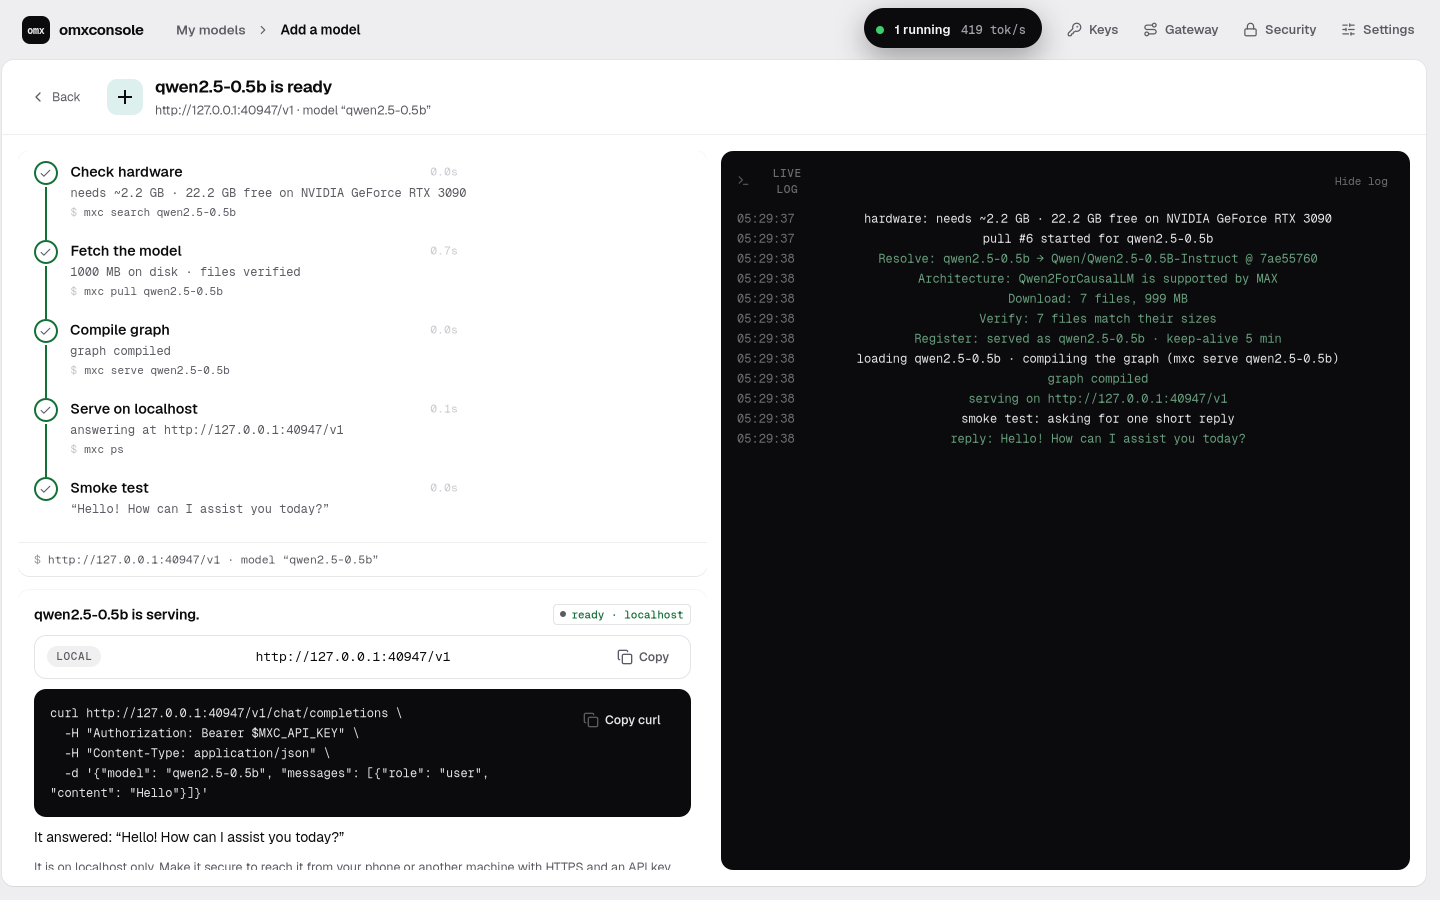
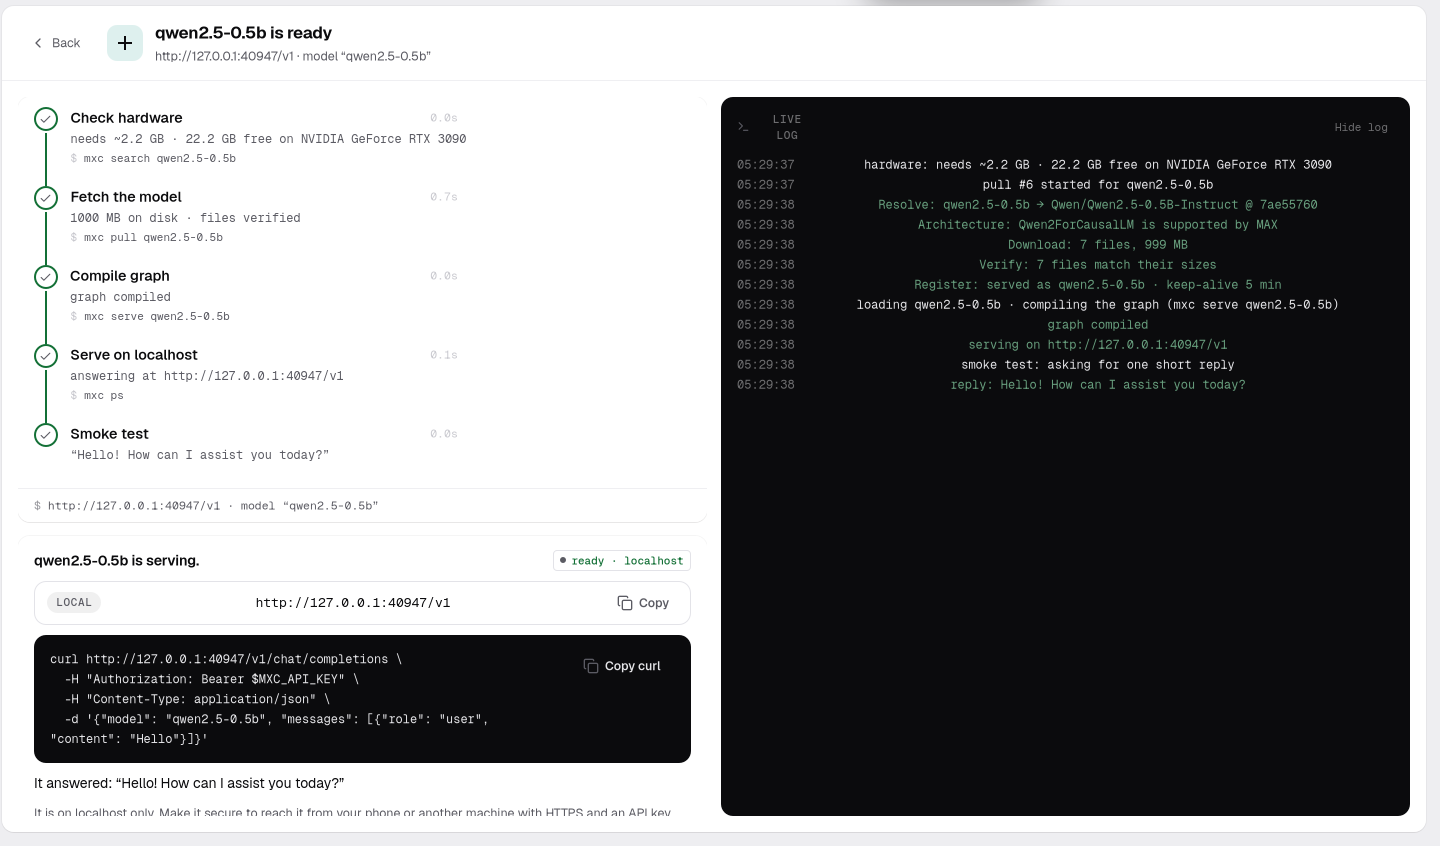
Goal 55 review round 1 fixes: M4 on medians again; no speed in gallery pictures; redirect tokens kept only on same-host HTTPS; Hub names can't escape; cancel and DELETE never remove a working model's files; failures never leave rows running; tests/test_safety.mojo (D-5528–D-5530)

diff --git a/docs/goals/55-check.py b/docs/goals/55-check.py
@@ -239,6 +239,11 @@ def m2():
     if build_all():
         return False, "build failed"
     problems = []
+    # the safety rules under downloads and deletes, offline (review round 1: redirect tokens, remove_tree, Hub names)
+    r = run(["scripts/mojo_flare.sh", "build", "tests/test_safety.mojo", "-o", str(BUILD / "test_safety")])
+    t = run([str(BUILD / "test_safety")], timeout=120) if r.returncode == 0 else r
+    if t.returncode != 0 or "safety: ok" not in t.stdout:
+        problems.append("test_safety: " + (t.stdout + t.stderr)[-300:])
     with Daemon() as d:
         m = ensure_small(d)
         if not m:
@@ -338,14 +343,14 @@ def m4():
         best_bench = db.execute("SELECT max(decode_tps) FROM bench_samples WHERE run_id = ? AND error IS NULL",
                                 (latest.get("id"),)).fetchone()[0] or 0
         db.close()
-        close = best_bench > 0 and abs(best_bench - best_sdk) / best_sdk <= 0.25
+        close = btps > 0 and abs(btps - tps) / tps <= 0.25  # (the contract's medians: D-5516's best-run comparison withdrawn, D-5528)
         steps = STEPS / "m4.steps"
         if not steps.exists():
             return False, "no docs/goals/55/m4.steps (the Benchmark tab)"
         ok, out = console(steps, d, G55 / "console-bench.png")
         bars = ok and bool(re.search(r"SAYS: bench-bars = .*\d", out))
         return close and bars, f"bench p50: ttft {bt * 1000:.0f} ms, {btps:.1f} tok/s; SDK p50: ttft {ttft * 1000:.0f} ms, {tps:.1f} tok/s; " \
-            f"best runs: bench {best_bench:.1f}, SDK {best_sdk:.1f} tok/s ({'within' if close else 'outside'} 25 %); console bars {'drawn' if bars else 'missing: ' + out[-200:]}"
+            f"medians {'within' if close else 'outside'} 25 % (best runs: bench {best_bench:.1f}, SDK {best_sdk:.1f}); console bars {'drawn' if bars else 'missing: ' + out[-200:]}"
 
 
 def m5():

diff --git a/scripts/gallery_page.py b/scripts/gallery_page.py
@@ -34,8 +34,8 @@ APPS = [
          line="Find a model on Hugging Face, download it, chat with it and benchmark it on your own GPU through Modular's MAX. One OpenAI-style endpoint with keys, all omxcode.",
          # (Mac: the macOS 15 runner's build ran there; on macOS 26 the runner's own build of the same source ran)
          runs=[("Linux", "ok"), ("Mac", "ci")], get=["Linux", "Mac"], needs="Needs MAX installed (docs.modular.com/max/packages)",
-         shots=[("img/omxconsole-ready.png", "Linux: a model found, downloaded and answering"), ("img/omxconsole-bench.png", "Linux: its benchmark, 331 tokens/s"),
-                ("img/omxconsole-models.png", "Linux: My models")], src="examples/console"),
+         # (no speed in the pictures or captions: docs/lessons.md, D-4762; the Ready shot is cropped below its top bar's tok/s)
+         shots=[("img/omxconsole-ready.png", "Linux: a model found, downloaded and answering"), ("img/omxconsole-models.png", "Linux: My models")], src="examples/console"),
     dict(name="Sketch", app="sketch", kind="Drawing",
          line="Pressure ink with pan and zoom. Strokes taper with the pen; panning moves the kept ink, never redraws it.",
          runs=[("Linux", "ok"), ("Mac", "ci")], get=["Linux", "Mac"],

diff --git a/docs/decisions.md b/docs/decisions.md
@@ -1267,3 +1267,6 @@ One line per fork: `D-nn · chose X over Y · why · reversible?`
 - D-5525 · M5 runs the released omxconsole tarball when dist/ holds it (its sha256 = the gallery-apps asset's digest), else packages afresh, over always repackaging · a fresh package has a new checksum, so M7's "the download is the file that was run" broke after M5; and the run now tests what people download · yes
 - D-5526 · omxconsole's Mac download is the macOS 15 runner's build (it ran there), over the macOS 26 build · a Mac binary runs on later systems, not earlier ones; on 26 the runner's own build of the same source ran: the release notes say exactly that · yes
 - D-5527 · docs/goals/53-check.py reads every Mac run the release notes name (one per batch of apps) · omxconsole was tested in its own run · yes
+- D-5528 · (review round 1) M4 compares the medians again, as GOAL.md says; D-5516's best-run comparison is withdrawn · it hid what the contract measures (the full run showed medians of 304 and 209 tok/s passing on best runs); a run on a busy GPU now fails and is run again when the GPU is quiet, rather than passing on a friendlier statistic · yes
+- D-5529 · (review round 1) gallery pictures carry no speed (docs/lessons.md D-4762): the Ready shot is cropped below its top bar's tok/s, the benchmark shot and its caption are gone · yes
+- D-5530 · (review round 1) safety fixes: a token never follows a redirect from HTTPS to HTTP; a Hub file name with "", "." or ".." parts or a leading / is refused; a cancelled re-pull of a registered model removes only its .part files; DELETE removes only MXC_HOME/models/<one part>, never a folder another model uses, and refuses while that model is being pulled; a pull or bench that fails before its last write is marked failed (no more `except: pass`); progress writes touch only rows still downloading; config.json and the shard index must answer 200; each file's download total starts at 0. tests/test_safety.mojo (offline) proves the redirect, remove_tree, name and companion rules, in M2 · yes
